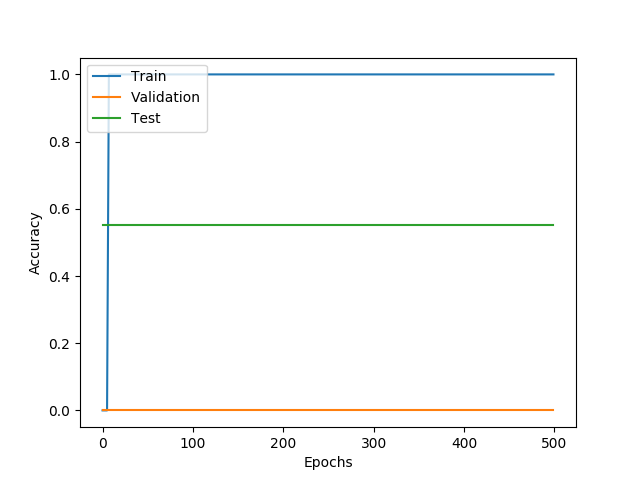
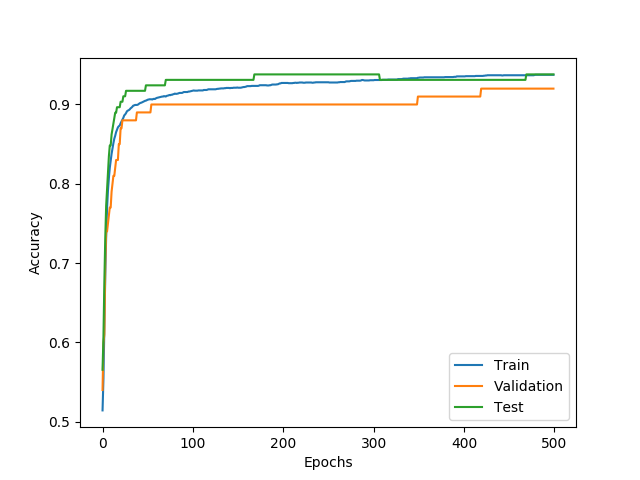
Added successful pytorch implementation. Cross entropy loss for the buildgraph function

diff --git a/a1/code/starter.py b/a1/code/starter.py
@@ -9,27 +9,20 @@ class Dataset(torch.utils.data.Dataset):
         'Initialization'
         self.labels = labels
         self.data = data.reshape((data.shape[0], data.shape[1]*data.shape[1]))
-        self.data = np.concatenate((np.ones((self.data.shape[0], 1)), self.data), axis=1)
+
     def __len__(self):
         'Denotes the total number of samples'
         return len(self.labels)
     def __getitem__(self, index):
-        'Generates one sample of data'
-        # Select sample
-        ID = self.labels[index]
-        # Load data and get label
-        X = self.data[ID]
-        y = self.labels[ID]
-        return X, y
-    def obtain_np_data(self):
-        return self.data, self.labels
+        feature = self.data[index]
+        label = self.labels[index]
+        return feature, label
 
 class Prceptron(torch.nn.Module):
     def __init__(self, input_size, neuronCount=1, weight=None):
         super(Prceptron, self).__init__()
-        self.fc1 = torch.nn.Linear(input_size, neuronCount, bias=False)
-        if weight != None:
-            self.fc1.weight.data = weight.transpose(1,0)
+        self.fc1 = torch.nn.Linear(input_size, neuronCount, bias=True)
+
     def forward(self, features):
         x = self.fc1(features)
         return x
@@ -110,44 +103,22 @@ def gradCE(w, b, x, y, reg):
     b_grad = np.average(b_grad,0) + reg*b
     return b_grad,w_grad
 
-def compute_loss_with_tensor(weight, dataSet, loss_func):
-    temp_loader = torch.utils.data.DataLoader(dataSet, batch_size=len(dataSet), shuffle=True)
-    for i, batch in enumerate(temp_loader):
-        data, batch_label = batch
-        data = data.squeeze().float()
-        label = batch_label.squeeze().float()
-        result = torch.mm(data, weight)
-        loss = loss_func(result, label).item()
-        # print(loss)
-        return loss
-def evaluate(model, val_loader):
-    total_corr = 0
-    for i, batch in enumerate(val_loader):
-        data, label = batch
-        data = data.type(torch.FloatTensor)
-        prediction = model(data)
-        print(prediction)
-        for j in range(0, len(prediction)):
-            if label[j] == 1:
-                if prediction[j] > 0.5:
-                    total_corr = total_corr + 1
-            elif label[j] == 0:
-                if prediction[j] < 0.5:
-                    total_corr = total_corr + 1
-    # print(float(total_corr)/len(val_loader.dataset))
-    return float(total_corr)/len(val_loader.dataset)
-# def compute_accuracy_with_tensor(weight, dataSet):
-#     temp_loader = torch.utils.data.DataLoader(dataSet, batch_size=len(dataSet), shuffle=True)
-#     for i, batch in enumerate(temp_loader):
-#         data, batch_label = batch
-#         data = data.squeeze().float()
-#         label = batch_label.squeeze().float()
-#         result = (torch.mm(data, weight))
-#         # print(result)
-#         result = np.where(result >= 0.5, 1, 0).squeeze()
-#         accuracy = np.where(result == label.numpy(), 1, 0).sum()
-#         print(accuracy / result.shape[0])
-#         return accuracy / result.shape[0]
+def compute_loss_with_tensor(model, data_set, loss_func):
+    # temp_loader = torch.utils.data.DataLoader(dataSet, batch_size=len(dataSet), shuffle=True)
+    data = data_set.data
+    batch_label = data_set.labels
+    result = model(data)
+    loss = loss_func(result.squeeze(), batch_label.squeeze()).item()
+    # print(loss)
+    return loss
+def evaluate(model, data_set):
+    data = data_set.data
+    batch_label = data_set.labels.numpy()
+    result = model(data).detach().numpy()
+    result = np.where(result >= 0.5, 1, 0).squeeze()
+    accuracy = np.where(result == batch_label.squeeze(), 1, 0).sum()
+    # print(accuracy/result.shape[0])
+    return accuracy/result.shape[0]
 
 def compute_accuracy(W, b, x, y):
     try:
@@ -222,55 +193,47 @@ def MSE_normalEQ(W, b, x, y):
     return W, b
 
 def buildGraph(loss="MSE"):
-
+    torch.manual_seed(421)
     error_train = []
     acc_train = []
     error_valid = []
     acc_valid = []
     error_test = []
     acc_test = []
+    train_dataset = Dataset(torch.tensor(trainData).float(), torch.tensor(trainTarget).float())
+    valid_dataset = Dataset(torch.tensor(validData).float(), torch.tensor(validTarget).float())
+    test_dataset = Dataset(torch.tensor(testData).float(), torch.tensor(testTarget).float())
 
-    # generate dataset objects that are used to create the batch iterators used for SGD
-    # this also make the data into augmented data, in which the i-th data is = {1, x_1, x_2, ..., x_d}
-    train_dataset = Dataset(trainData, trainTarget)
-    valid_dataset = Dataset(validData, validTarget)
-    test_dataset = Dataset(testData, testTarget)
-    torch.manual_seed(421)
-    aug_weights = torch.zeros((1+28 * 28, 1))
-    aug_weights = torch.tensor(truncatedNormal(aug_weights, aug_weights.mean(), 0.5), requires_grad=True).float()
-    loss_func = None
-    train_loader = torch.utils.data.DataLoader(train_dataset, batch_size=len(train_dataset), shuffle=True)
-    valid_loader = torch.utils.data.DataLoader(valid_dataset, batch_size=len(valid_dataset), shuffle=True)
-    test_loader = torch.utils.data.DataLoader(test_dataset, batch_size=len(test_dataset), shuffle=True)
-    model = Prceptron(28*28+1, neuronCount=1, weight=aug_weights)
+    train_loader = torch.utils.data.DataLoader(train_dataset, batch_size=500, shuffle=True)
+    model = Prceptron(trainData.shape[1]*trainData.shape[1])
     optimizer = torch.optim.SGD(model.parameters(), lr=0.0001, weight_decay=0)
+    loss_func = None
     if loss == "MSE":
         loss_func = torch.nn.MSELoss()
-        for epoch in range (0, 500):
-            for i, batch in enumerate(train_loader):
-                optimizer.zero_grad()
-                feat, batch_label = batch
-                feat = feat.type(torch.FloatTensor)
-                result = model(feat)
-                batch_label = batch_label.squeeze().float()
-                loss = loss_func(input=result.squeeze(), target=batch_label.float())
-                loss.backward()
-                optimizer.step()
-                print(loss)
-            error_train.append(compute_loss_with_tensor(aug_weights, train_dataset, loss_func))
-            error_valid.append(compute_loss_with_tensor(aug_weights, valid_dataset, loss_func))
-            error_test.append(compute_loss_with_tensor(aug_weights, test_dataset, loss_func))
-            # acc_train.append(evaluate(model, train_loader))
-            #
-            acc_valid.append(evaluate(model, valid_loader))
-            # acc_test.append(evaluate(model, test_loader))
-        plot_trend([error_train, error_valid, error_test],
-                   data_title="pytorch_lr==0.0001_weightDecay==0_Loss", y_label="Loss")
-        plot_trend([acc_train, acc_valid, acc_test], data_title="pytorch_lr==0.0001_weightDecay==0_Accuracy")
     elif loss == "CE":
         loss_func = torch.nn.CrossEntropyLoss()
-    return weights, bias, optimizer
-
+    for epoch in range(0, 500):
+        for i, batch in enumerate(train_loader):
+            optimizer.zero_grad()
+            feat, batch_label = batch
+            feat = feat.type(torch.FloatTensor)
+            result = model(feat)
+            batch_label = batch_label.squeeze().float()
+            loss = loss_func(input=result.squeeze(), target=batch_label.float())
+            loss.backward()
+            optimizer.step()
+        error_train.append(compute_loss_with_tensor(model, train_dataset, loss_func))
+        error_valid.append(compute_loss_with_tensor(model, valid_dataset, loss_func))
+        error_test.append(compute_loss_with_tensor(model, test_dataset, loss_func))
+        acc_train.append(evaluate(model, train_dataset))
+        acc_valid.append(evaluate(model, valid_dataset))
+        acc_test.append(evaluate(model, test_dataset))
+    plot_trend([error_train, error_valid, error_test],
+               data_title="pytorch_CE_lr==0.0001_weightDecay==0_Loss", y_label="Loss")
+    plot_trend([acc_train, acc_valid, acc_test], data_title="pytorch_CE_lr==0.0001_weightDecay==0_Accuracy")
+    weights = model.fc1.weight.data.detach().numpy()
+    bias = model.fc1.bias.data.detach().numpy()
+    return weights, bias
 
 trainData, validData, testData, trainTarget, validTarget, testTarget = loadData()
 # print(trainData.shape) # (num of item, length, width)
@@ -312,7 +275,6 @@ def run_part_1():
 #
 #     print("the normal of the weight vector is" + str(np.linalg.norm(W)))
 
-trainData, validData, testData, trainTarget, validTarget, testTarget = loadData()
 if __name__== "__main__":
     # run_part_1()
-    buildGraph()
+    print(buildGraph("CE"))
